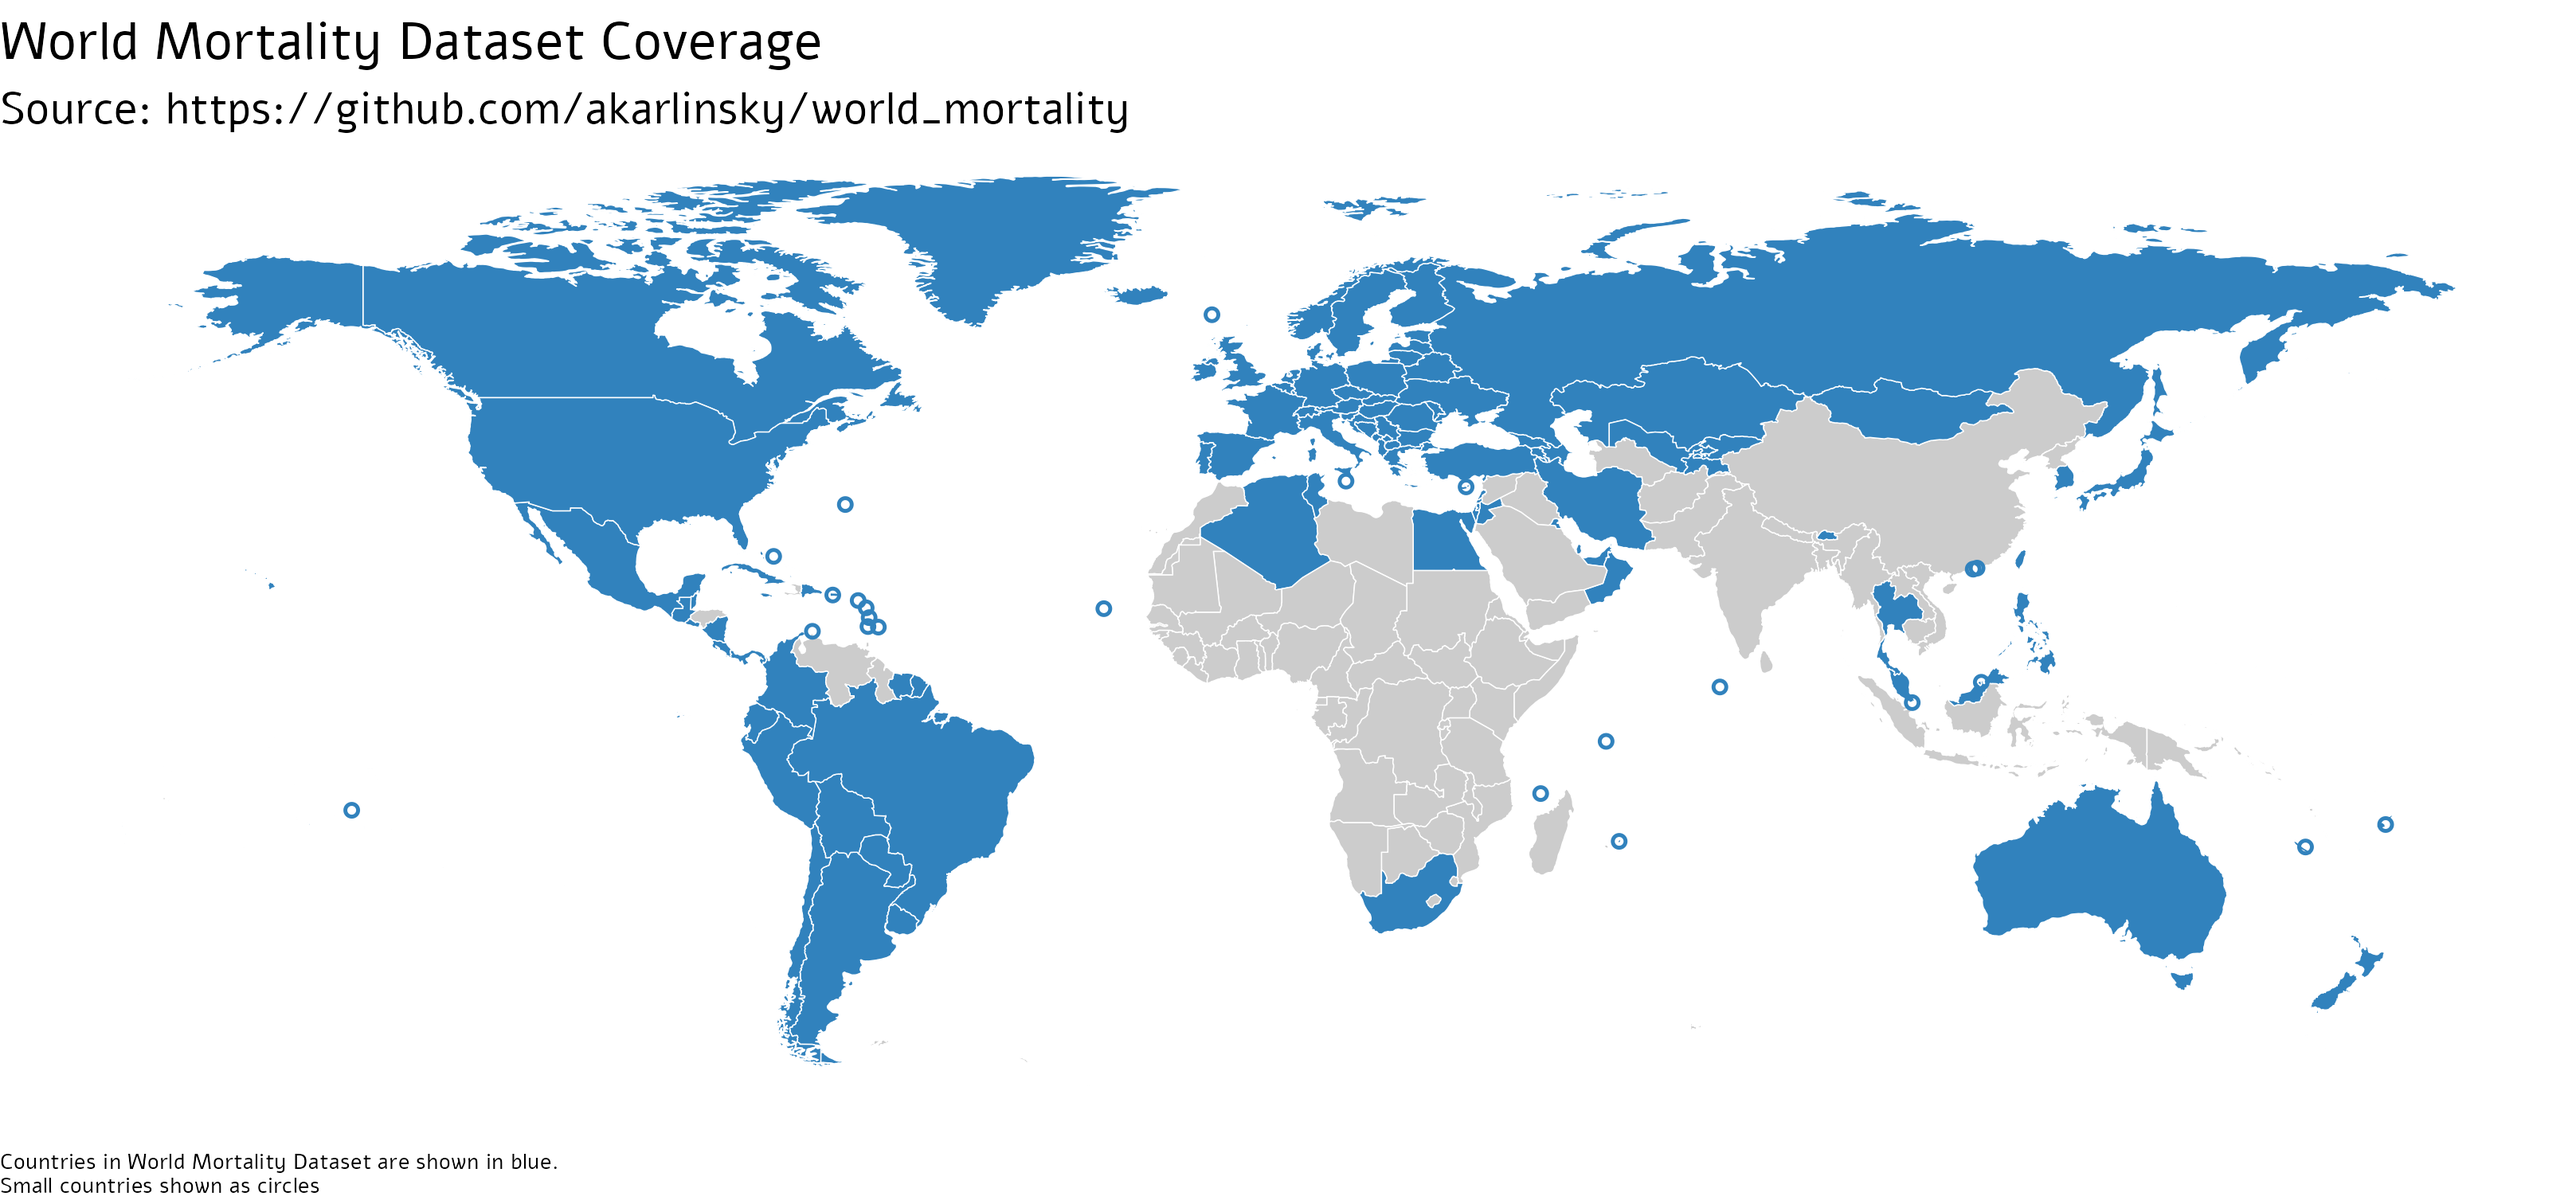
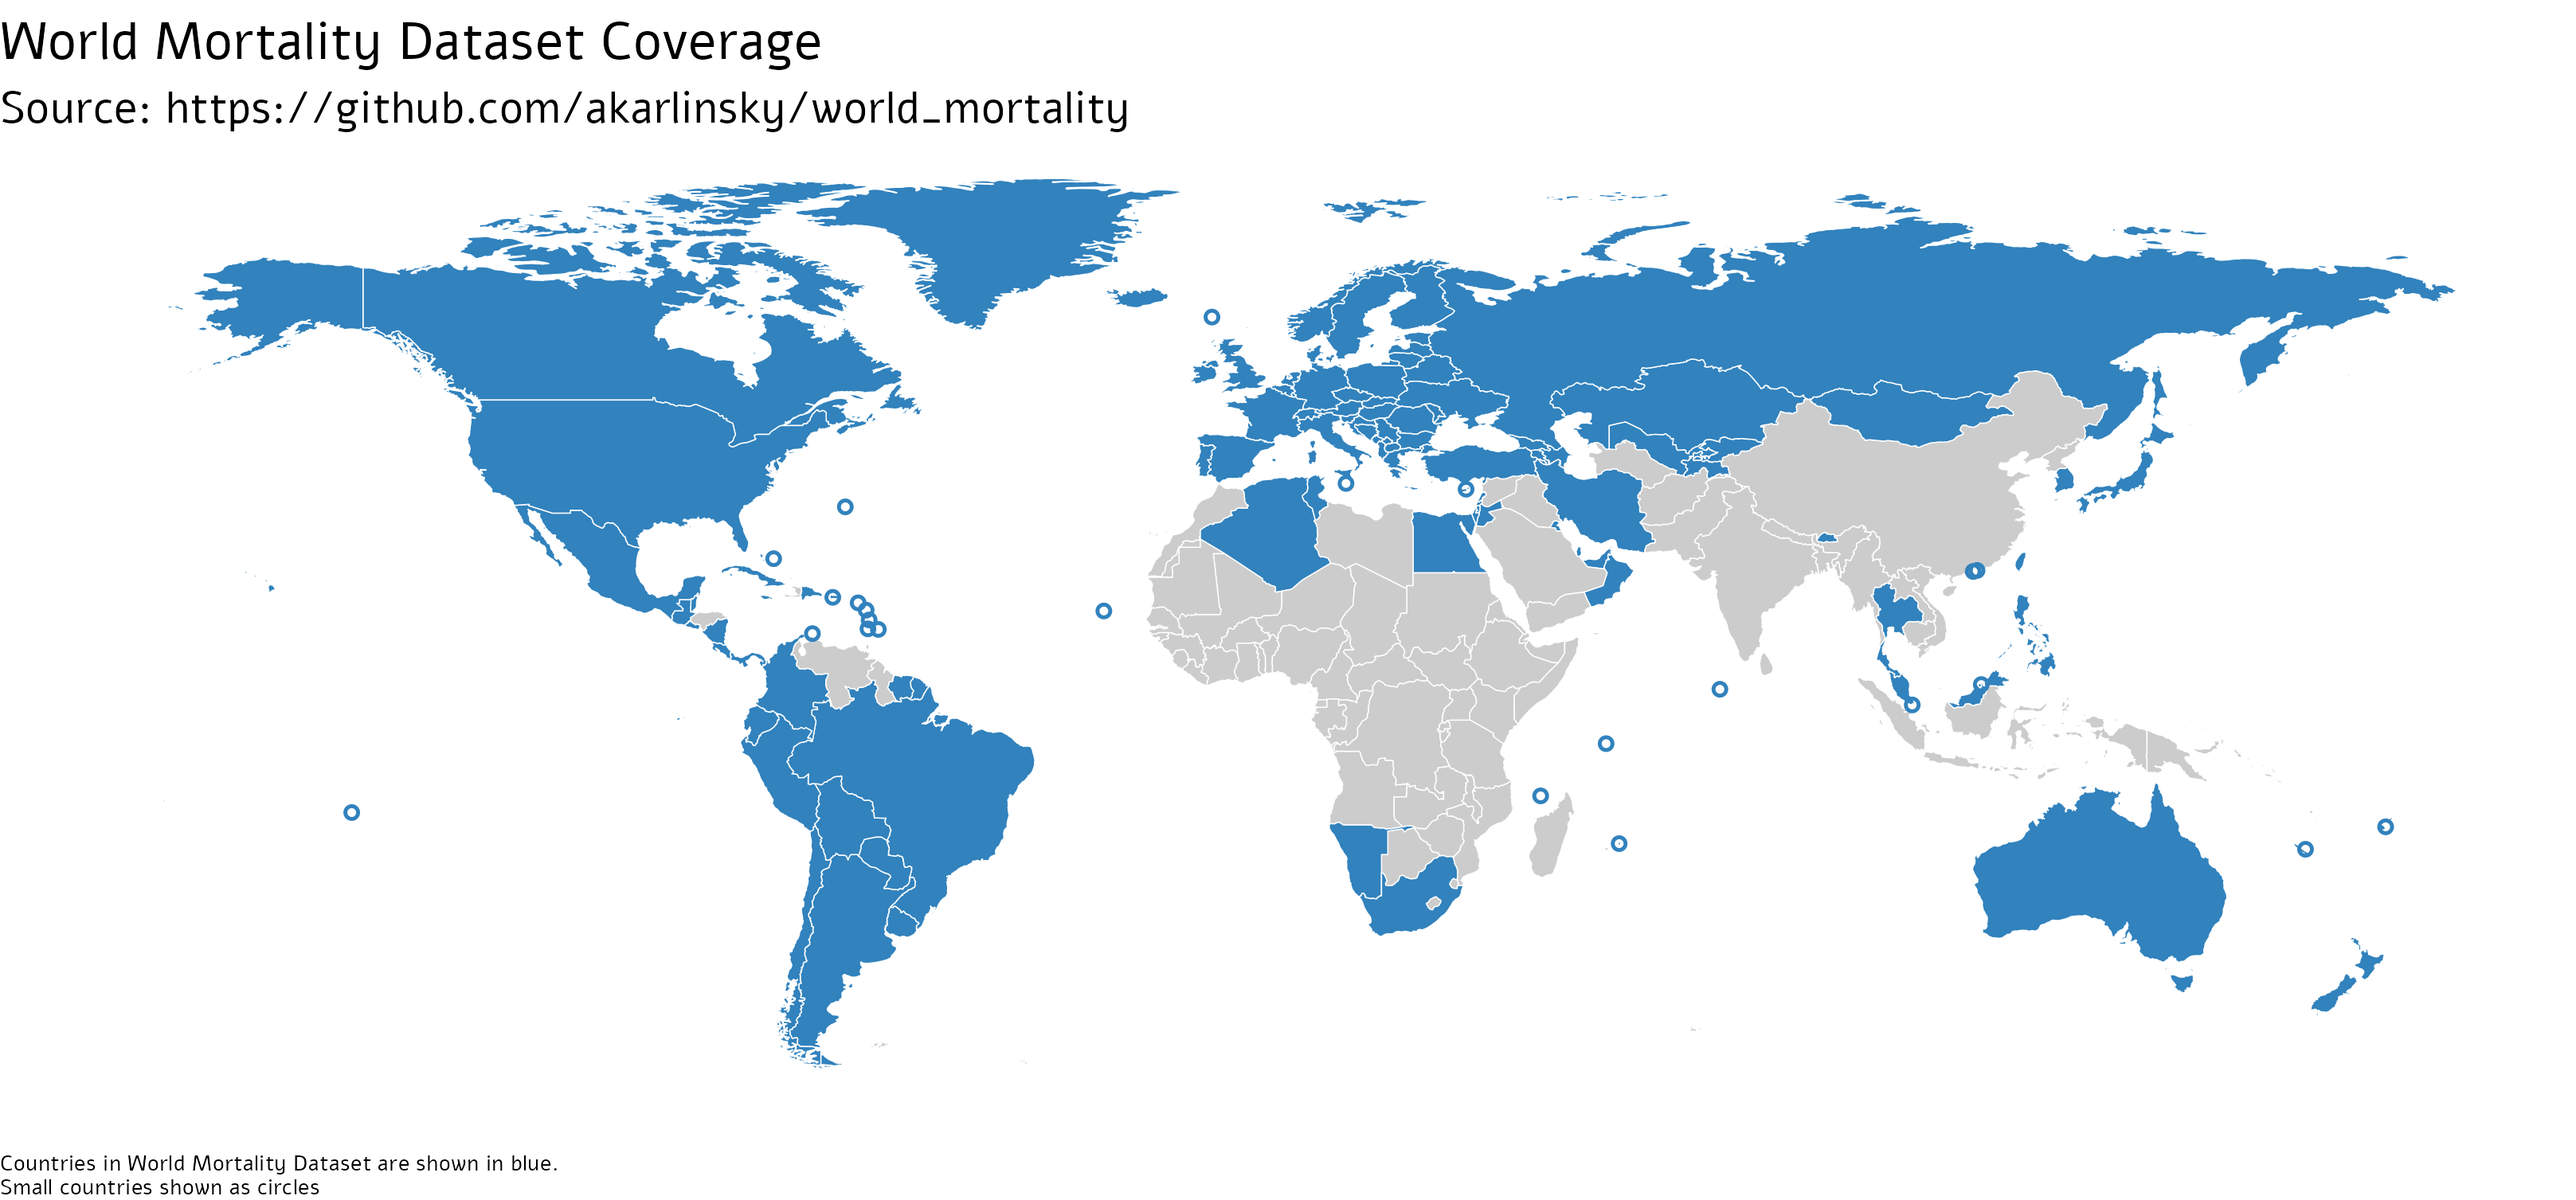
2023-12-11 update
New country: Namibia (monthly 2015-2021).

diff --git a/README.md b/README.md
@@ -1,7 +1,7 @@
 # World Mortality Dataset
 
 This repository contains country-level data on all-cause mortality in 2015–2022 collected from various sources, see below.   
-We are currently providing data for 126 countries and territories.   
+We are currently providing data for 127 countries and territories.   
 We welcome any contributions.
 
 If you use this data, please cite it as:    
@@ -414,6 +414,12 @@ We wish to thank [Mario Romero Zavala](https://github.com/mariorz) & [Laurianne 
 2015: UNData: http://data.un.org/Data.aspx?d=POP&f=tableCode%3a65%3bcountryCode%3a496%3brefYear%3a2015&c=2,3,6,8,10,12,13,14&s=_countryEnglishNameOrderBy:asc,refYear:desc,areaCode:asc&v=1
 
 2016 onward: Mongolian Statistical Information Service: https://www.1212.mn/mn/statistic/statcate/573056/table-view/DT_NSO_2100_027V2
+
+
+### Namibia (monthly)
+2015 - 2017: Namibia Statistics Agency (NSA) [Namibia Vital Statistics Report](https://nsa.nsa.org.na/wp-content/uploads/2021/09/Namibia-Vital-Statistics-Report.pdf)
+
+2018 - 2021: NSA [Namibia Mortality and Causes of Deaths Report, 2018 – 2021](https://nsa.nsa.org.na/wp-content/uploads/2023/12/Namibia-CoD-Report-15-November-2023.pdf)
 
 
 ### New Caledonia (monthly)
